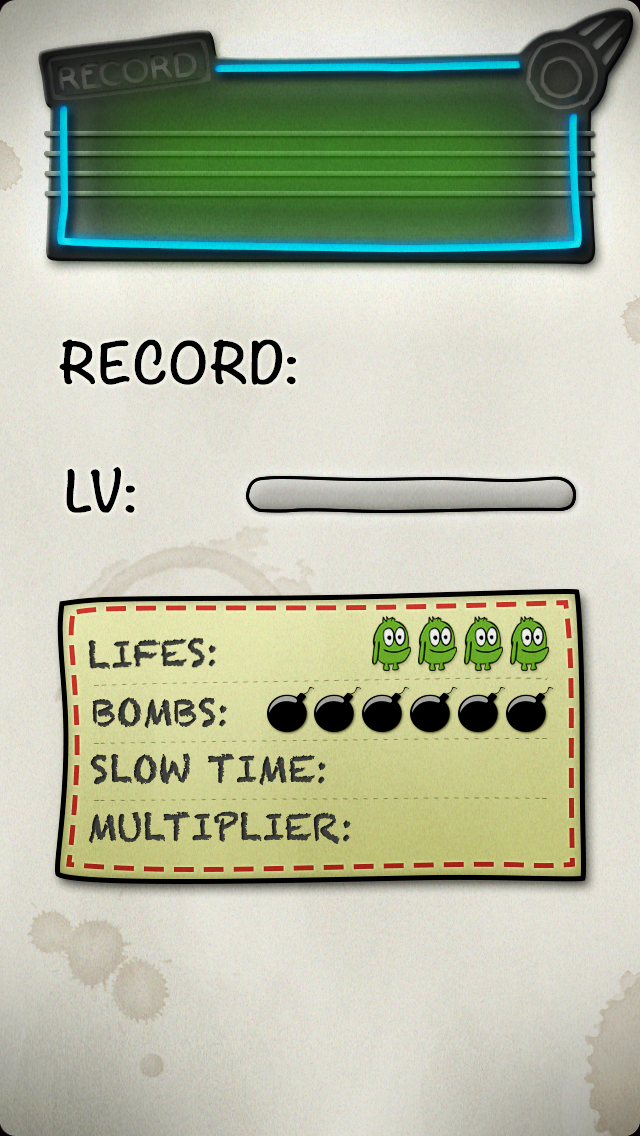
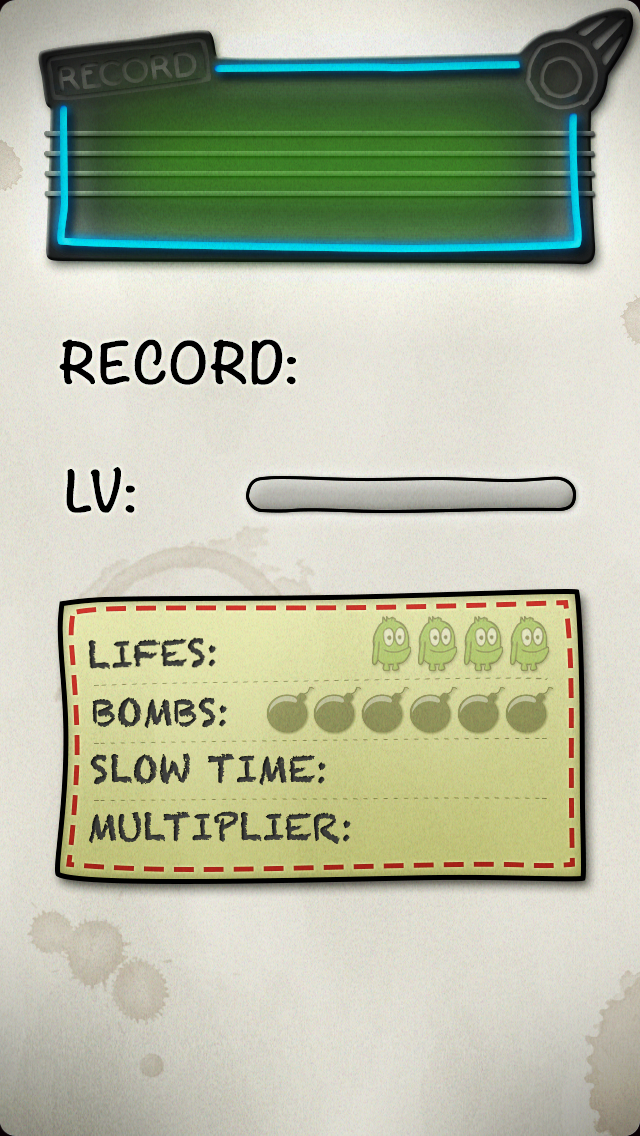
Score screen complete info. Slowing time now works. Bombs.

Changed region(s): [[0.4062, 0.5238, 0.875, 0.647]]

diff --git a/tuster_type.js b/tuster_type.js
@@ -1,3 +1,10 @@
+/* TODO
+- Combos
+- Music ON/OFF
+- Titles screen
+*/
+
+
 window.addEventListener("load", function () {
 
     // Set up an instance of the Quintus engine  and include
@@ -26,27 +33,30 @@ window.addEventListener("load", function () {
             "purple": "yuk"
         };
 
+        var SLOWED_RATE = 0.5;
+        var MAX_TIME_JUICE = 285.0;
+
         var levels = [
             { "lifes": 1, "bombs": 0, "slowTime": 0, "multiplier": 10, "experience": 4500 },
-            { "lifes": 1, "bombs": 0, "slowTime": 5, "multiplier": 11, "experience": 9500 },
-            { "lifes": 1, "bombs": 2, "slowTime": 5, "multiplier": 11, "experience": 15500 },
-            { "lifes": 1, "bombs": 2, "slowTime": 7, "multiplier": 12, "experience": 23500 },
-            { "lifes": 2, "bombs": 2, "slowTime": 7, "multiplier": 12, "experience": 33500 },
-            { "lifes": 2, "bombs": 3, "slowTime": 7, "multiplier": 13, "experience": 46000 },
-            { "lifes": 2, "bombs": 3, "slowTime": 9, "multiplier": 13, "experience": 61000 },
-            { "lifes": 2, "bombs": 3, "slowTime": 9, "multiplier": 14, "experience": 79000 },
-            { "lifes": 2, "bombs": 3, "slowTime": 9, "multiplier": 14, "experience": 100000 },
-            { "lifes": 2, "bombs": 4, "slowTime": 11, "multiplier": 15, "experience": 125000 },
-            { "lifes": 2, "bombs": 4, "slowTime": 11, "multiplier": 15, "experience": 154000 },
-            { "lifes": 2, "bombs": 4, "slowTime": 11, "multiplier": 16, "experience": 188000 },
-            { "lifes": 3, "bombs": 4, "slowTime": 13, "multiplier": 16, "experience": 227000 },
-            { "lifes": 3, "bombs": 5, "slowTime": 13, "multiplier": 17, "experience": 272000 },
-            { "lifes": 3, "bombs": 5, "slowTime": 13, "multiplier": 17, "experience": 332000 },
-            { "lifes": 3, "bombs": 5, "slowTime": 14, "multiplier": 18, "experience": 412000 },
-            { "lifes": 3, "bombs": 5, "slowTime": 14, "multiplier": 18, "experience": 522000 },
-            { "lifes": 3, "bombs": 6, "slowTime": 14, "multiplier": 19, "experience": 672000 },
-            { "lifes": 3, "bombs": 6, "slowTime": 15, "multiplier": 19, "experience": 872000 },
-            { "lifes": 4, "bombs": 6, "slowTime": 15, "multiplier": 20, "experience": -1 }
+            { "lifes": 1, "bombs": 0, "slowTime": 5000, "multiplier": 11, "experience": 9500 },
+            { "lifes": 1, "bombs": 2, "slowTime": 5000, "multiplier": 11, "experience": 15500 },
+            { "lifes": 1, "bombs": 2, "slowTime": 7000, "multiplier": 12, "experience": 23500 },
+            { "lifes": 2, "bombs": 2, "slowTime": 7000, "multiplier": 12, "experience": 33500 },
+            { "lifes": 2, "bombs": 3, "slowTime": 7000, "multiplier": 13, "experience": 46000 },
+            { "lifes": 2, "bombs": 3, "slowTime": 9000, "multiplier": 13, "experience": 61000 },
+            { "lifes": 2, "bombs": 3, "slowTime": 9000, "multiplier": 14, "experience": 79000 },
+            { "lifes": 2, "bombs": 3, "slowTime": 9000, "multiplier": 14, "experience": 100000 },
+            { "lifes": 2, "bombs": 4, "slowTime": 11000, "multiplier": 15, "experience": 125000 },
+            { "lifes": 2, "bombs": 4, "slowTime": 11000, "multiplier": 15, "experience": 154000 },
+            { "lifes": 2, "bombs": 4, "slowTime": 11000, "multiplier": 16, "experience": 188000 },
+            { "lifes": 3, "bombs": 4, "slowTime": 13000, "multiplier": 16, "experience": 227000 },
+            { "lifes": 3, "bombs": 5, "slowTime": 13000, "multiplier": 17, "experience": 272000 },
+            { "lifes": 3, "bombs": 5, "slowTime": 13000, "multiplier": 17, "experience": 332000 },
+            { "lifes": 3, "bombs": 5, "slowTime": 14000, "multiplier": 18, "experience": 412000 },
+            { "lifes": 3, "bombs": 5, "slowTime": 14000, "multiplier": 18, "experience": 522000 },
+            { "lifes": 3, "bombs": 6, "slowTime": 14000, "multiplier": 19, "experience": 672000 },
+            { "lifes": 3, "bombs": 6, "slowTime": 15000, "multiplier": 19, "experience": 872000 },
+            { "lifes": 4, "bombs": 6, "slowTime": 15000, "multiplier": 20, "experience": -1 }
         ];
 
     }
@@ -170,7 +180,6 @@ window.addEventListener("load", function () {
 
     Q.scene("mainStage", function (stage) {
         // Q.audio.play("music.ogg", { loop: true });
-        // Q.stageTMX("level.tmx", stage);
 
         var exp = getCookie('experience');
         if (exp == null) {
@@ -183,7 +192,15 @@ window.addEventListener("load", function () {
         var level = getLevelForExperience(exp);
         var levelData = levels[level - 1];
 
-        Q.state.reset({ score: 0, time_juice: 0, lifes: levelData['lifes'], bombs: levelData['bombs'], slowTime: levelData['slowTime'], multiplier: levelData['multiplier'] });
+        Q.state.reset({
+            score: 0,
+            time_juice: 285.0,
+            slowed_time: false,
+            lifes: levelData['lifes'],
+            bombs: levelData['bombs'],
+            slowTime: levelData['slowTime'],
+            multiplier: levelData['multiplier']
+        });
 
         Q.stageScene('background', 0);
         var gameStage = Q.stageScene('game', 1);
@@ -313,7 +330,8 @@ window.addEventListener("load", function () {
                 Q.state.on("change.bombs", this, "bombs");
             },
             bombs: function (bombs) {
-                if (bombs <= 0) {
+                if (bombs < 0) {
+                    this.p.label = "x0";
                     return;
                 }
                 this.p.label = "x" + bombs;
@@ -331,12 +349,27 @@ window.addEventListener("load", function () {
             },
             draw: function (ctx) {
                 // override draw to show the correct level of time juice
-                var level = Q.state.get("time_juice");
-                if (level > 285) {
-                    level = 285;
-                }
-                var height = 572 / 285.0 * level;
+                var juice = Q.state.get("time_juice");
+                var height = 572 / MAX_TIME_JUICE * juice;
                 ctx.drawImage(Q.asset(this.p.asset), 0, 572 - height, 32, height, 0, 572 - height, 32, height);
+            }
+        });
+        Q.Sprite.extend("TimeIndicator", {
+            init: function (p) {
+                this._super(p, {
+                    asset: "time_button.png",
+                    cx: 0, cy: 0,
+                    x: 530, y: 110,
+                    opacity: 0.6,
+                    gravity: 0,
+                    collisionMask: Q.SPRITE_NONE
+                });
+
+                Q.state.on("change.time_juice", this, "time_juice");
+            },
+            time_juice: function (time_juice) {
+                var active = (time_juice >= MAX_TIME_JUICE);
+                this.p.opacity = active ? 1 : 0.6;
             }
         });
         Q.scene('infoUI', function (stage) {
@@ -344,10 +377,12 @@ window.addEventListener("load", function () {
                 asset: "info.png",
                 x: Q.width / 2, y: Q.height / 2,
             }));
-            var time_bar = stage.insert(new Q.TimeBar());
-            var label = stage.insert(new Q.Score());
-            var lifes = stage.insert(new Q.Lifes());
-            var bombs = stage.insert(new Q.Bombs());
+            
+            stage.insert(new Q.TimeBar());
+            stage.insert(new Q.TimeIndicator());
+            stage.insert(new Q.Score());
+            stage.insert(new Q.Lifes());
+            stage.insert(new Q.Bombs());
         });
     }
 
@@ -367,6 +402,10 @@ window.addEventListener("load", function () {
                 this.play('move');
                 this.on("dead", this, "destroy");
 
+                var slowed = Q.state.get("slowed_time");
+                if (slowed) {
+                    this.setRate(SLOWED_RATE);
+                }
                 this.animate({ x: this.p.x, y: 970 }, this.p.speed / 1000.0, Q.Easing.Linear, { callback: this.crash });
             },
             // step: function (dt) {
@@ -443,7 +482,15 @@ window.addEventListener("load", function () {
                 addedScore *= count * multiplier;
 
                 Q.state.inc("score", addedScore);
-                Q.state.inc("time_juice", (count * 5));
+
+                // If the time is currently not slowed and the user can potentially slow time                
+                if (!Q.state.get("slowed_time") && Q.state.get("slowTime") > 0) {
+                    Q.state.inc("time_juice", (count * 5));
+                    
+                    if (Q.state.get("time_juice") > MAX_TIME_JUICE) {
+                        Q.state.get("time_juice", MAX_TIME_JUICE);
+                    }
+                }
             }
 
             var keystrokes = "000";
@@ -469,8 +516,31 @@ window.addEventListener("load", function () {
                     return;
                 }
 
+                var bombs = Q.state.get("bombs");
+                if (bombs <= 0) {
+                    return;
+                }
+
                 clear_meteorites('bomb');
                 Q.state.dec("bombs", 1);
+            });
+
+            function setSlowed(slowed) {
+                Q.state.set("slowed_time", slowed);
+                Q("Meteorite", 1).each(function () {
+                    this.setRate(slowed ? SLOWED_RATE : 1);
+                });
+            }            
+            Q.input.on("slow_time", this, function () {
+                if (stage.paused) {
+                    return;
+                }
+
+                if (Q.state.get("time_juice") < MAX_TIME_JUICE) {
+                    return;
+                }
+
+                setSlowed(true);
             });
 
             // Create the player and add them to the stage
@@ -538,6 +608,20 @@ window.addEventListener("load", function () {
                     // Add in a couple of enemies
                     stage.insert(new Q.Meteorite({ x: x, y: y, speed: speed, color: key }));
                 }
+
+                var slowed = Q.state.get("slowed_time");
+                if (slowed) {
+                    var slowTime = Q.state.get("slowTime");
+                    var fragment = MAX_TIME_JUICE / slowTime;
+
+                    Q.state.dec("time_juice", fragment * dt);
+
+                    if (Q.state.get("time_juice") <= 0) {
+                        Q.state.set("time_juice", 0);
+
+                        setSlowed(false);
+                    }
+                }
             });
         });
     }
@@ -575,12 +659,16 @@ window.addEventListener("load", function () {
                     cx: 0,
                     x: p.clouds_type == 1 ? 0 : 720,
                     y: 800,
+                    opacity: 0.8,
                     gravity: 0,
                     collisionMask: Q.SPRITE_NONE,
-                    vx: -20
+                    vx: -16
                 });
 
                 this.add('2d');
+                Q.state.on("change.slowed_time", this, function (slowed_time) {
+                    this.p.opacity = slowed_time ? 1 : 0.8;
+                });
             },
             step: function (dt) {
                 if (this.p.x <= -720) {
@@ -588,24 +676,41 @@ window.addEventListener("load", function () {
                 }
             }
         });
+        Q.Sprite.extend("OldBackground", {
+            init: function (p) {
+                this._super(p, {
+                    asset: "old_background.png",
+                    x: Q.width / 2, y: Q.height / 2,
+                    opacity: 0
+                });
+
+                this.add('tween');
+                Q.state.on("change.slowed_time", this, function (slowed_time) {
+                    var newOpacity = slowed_time ? 0.6 : 0;
+                    this.animate({ opacity: newOpacity }, 0.3);
+                });
+            }
+        });
         Q.scene('background', function (stage) {
             var hour = new Date().getHours();
             if (hour >= 7 && hour < 19) {
-                var background = stage.insert(new Q.Sprite({
+                stage.insert(new Q.Sprite({
                     asset: "day_background.png",
                     x: Q.width / 2, y: Q.height / 2,
                 }));
-                var sun = stage.insert(new Q.Sun());
+                stage.insert(new Q.Sun());
             }
             else {
-                var background = stage.insert(new Q.Sprite({
+                stage.insert(new Q.Sprite({
                     asset: "night_background.png",
                     x: Q.width / 2, y: Q.height / 2,
                 }));
             }
 
-            var clouds1 = stage.insert(new Q.Clouds({ clouds_type: 1 }));
-            var clouds1 = stage.insert(new Q.Clouds({ clouds_type: 2 }));
+            stage.insert(new Q.Clouds({ clouds_type: 1 }));
+            stage.insert(new Q.Clouds({ clouds_type: 2 }));
+
+            stage.insert(new Q.OldBackground());
         });
     }
 
@@ -782,6 +887,19 @@ window.addEventListener("load", function () {
                 align: "right",
                 label: levelData['multiplier'] + "x"
             }));
+
+            for (var life = 0; life < levelData['lifes']; life += 1) {
+                stage.insert(new Q.Sprite({
+                    asset: "life_icon.png",
+                    x: 533 - (46 * life), y: 652,
+                }));
+            }
+            for (var bomb = 0; bomb < levelData['bombs']; bomb += 1) {
+                stage.insert(new Q.Sprite({
+                    asset: "bomb_icon.png",
+                    x: 533 - (48 * bomb), y: 716,
+                }));
+            }
         });
     }
 
@@ -834,10 +952,10 @@ window.addEventListener("load", function () {
     // The callback will be triggered when everything is loaded
     Q.load(["menu_background.png", "play_button.png", "play_button.json", "leaderboard_button.png", "leaderboard_button.json", "player_button.png", "player_button.json",
         "day_background.png", "night_background.png", "old_background.png", "sun.png", "clouds1.png", "clouds2.png",
-        "info.png", "time_bar.png",
+        "info.png", "time_bar.png", "time_button.png",
         "pause_background.png", "resume_button.png", "resume_button.json", "music_button.png", "music_button.json",
         "restart_button.png", "restart_button.json", "exit_button.png", "exit_button.json",
-        "score_screen.png", "experience_bar.png", "neon_meteorite.png", "neon_meteorite.json", "neon_record.png",
+        "score_screen.png", "life_icon.png", "bomb_icon.png", "experience_bar.png", "neon_meteorite.png", "neon_meteorite.json", "neon_record.png",
         "meteorites.png", "meteorites.json",
         "back_button.png", "back_button.json", "leaderboard_background.png",
         // "bigMBoom1.ogg", "bigMBoom2.ogg", "bigMHit1.ogg", "bigMHit2.ogg", "boom1.ogg", "boom2.ogg",

diff --git a/lib/quintus_anim.js b/lib/quintus_anim.js
@@ -234,7 +234,8 @@ Quintus.Anim = function(Q) {
   };
 
   Q.component('tween',{
-    added: function() {
+      added: function () {
+          this._anim_rate = 1;
       this._tweens = [];
       this.entity.on("step",this,"step");
     },
@@ -261,10 +262,15 @@ Quintus.Anim = function(Q) {
       stop: function() {
         this.tween._tweens.length = 0;
         return this;
+      },
+
+      setRate: function (rate) {
+          this.tween._anim_rate = rate;
       }
     },
 
-    step: function(dt) {
+    step: function (dt) {
+        dt *= this._anim_rate;
       for(var i=0; i < this._tweens.length; i++) {
         if(!this._tweens[i].step(dt)) {
           this._tweens.splice(i,1);
